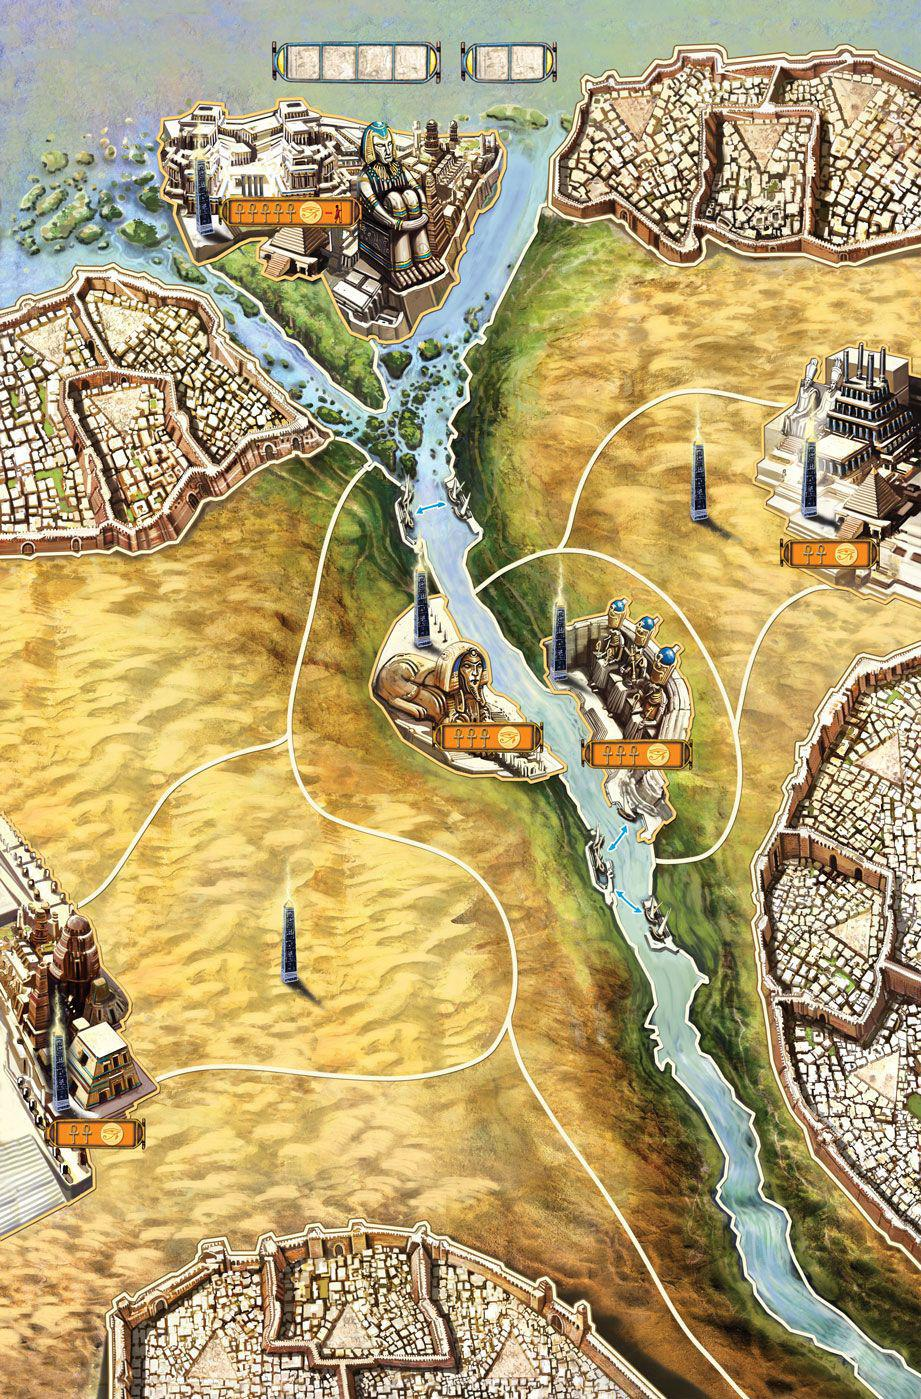
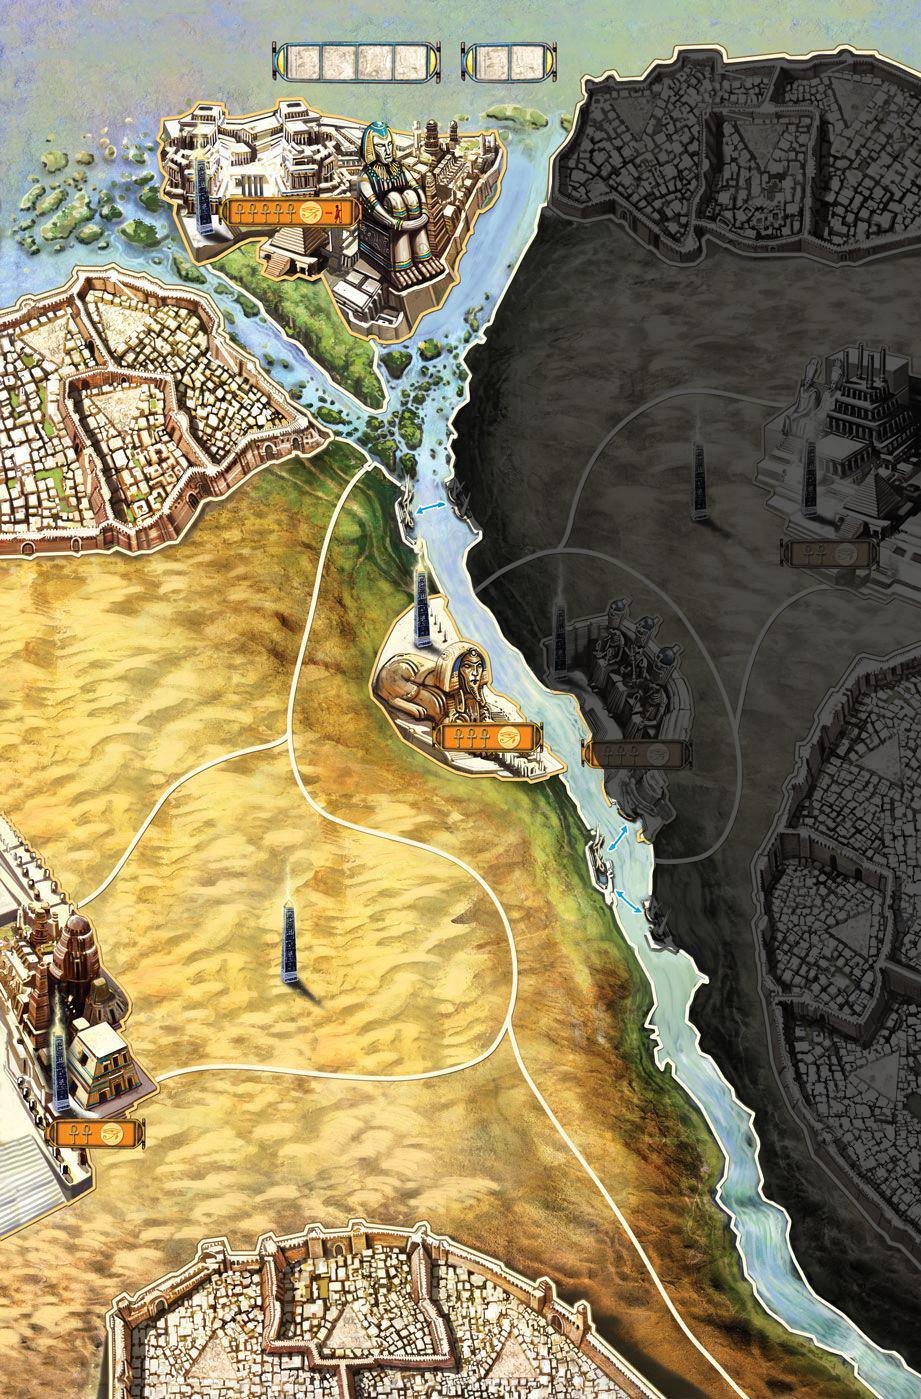
На картах для 2-х и 3-х игроков затемнена неиспользуемая часть

diff --git a/copyImg.py b/copyImg.py
@@ -1,0 +1,98 @@
+# Generated with ChatGPT
+import os
+import sys
+import shutil
+from pathlib import Path
+import traceback
+
+
+def main():
+    # Resolve script directory (script may be launched from another CWD)
+    script_dir = Path(__file__).resolve().parent
+
+    # Source root: ../drafts/assets/img/map/
+    src_root = (script_dir / ".." / "drafts" / "assets" / "img" / "map").resolve()
+
+    # Destination root: ./img/map/
+    dst_root = (script_dir / "img" / "map").resolve()
+
+    maps = [2, 3, 4, 5]
+
+    # Allowed image extensions
+    allowed_ext = {".png", ".jpg", ".jpeg"}
+
+    total_found = 0
+    total_copied = 0
+    total_errors = 0
+
+    print(f"Script directory: {script_dir}")
+    print(f"Source root:      {src_root}")
+    print(f"Destination root: {dst_root}")
+    print("")
+
+    if not src_root.exists():
+        print(f"ERROR: Source root does not exist: {src_root}")
+        return 2
+
+    for m in maps:
+        src_dir = src_root / f"map{m}p"
+        dst_dir = dst_root / f"map{m}p"
+
+        print(f"=== map{m}p ===")
+        print(f"From: {src_dir}")
+        print(f"To:   {dst_dir}")
+
+        if not src_dir.exists():
+            print("WARNING: Source folder not found, skipping.")
+            print("")
+            continue
+
+        # Create destination folder and all missing parents
+        dst_dir.mkdir(parents=True, exist_ok=True)
+
+        # Only image files from the top level (no subfolders)
+        img_files = [
+            p for p in src_dir.iterdir()
+            if p.is_file() and p.suffix.lower() in allowed_ext
+        ]
+
+        total_found += len(img_files)
+
+        if not img_files:
+            print("No image files found.")
+            print("")
+            continue
+
+        for src_file in img_files:
+            dst_file = dst_dir / src_file.name
+            try:
+                shutil.copy2(src_file, dst_file)
+                total_copied += 1
+                print(f"COPIED: {src_file.name}")
+            except Exception:
+                total_errors += 1
+                print(f"ERROR copying: {src_file.name}")
+                traceback.print_exc()
+
+        print("")
+
+    print("==== Summary ====")
+    print(f"Images found:  {total_found}")
+    print(f"Images copied: {total_copied}")
+    print(f"Errors:        {total_errors}")
+
+    return 1 if total_errors else 0
+
+
+if __name__ == "__main__":
+    try:
+        exit_code = main()
+    except Exception:
+        print("FATAL ERROR:")
+        traceback.print_exc()
+        exit_code = 2
+    finally:
+        # Pause so the console window doesn't close
+        input("\nPress Enter to exit...")
+
+    sys.exit(exit_code)
